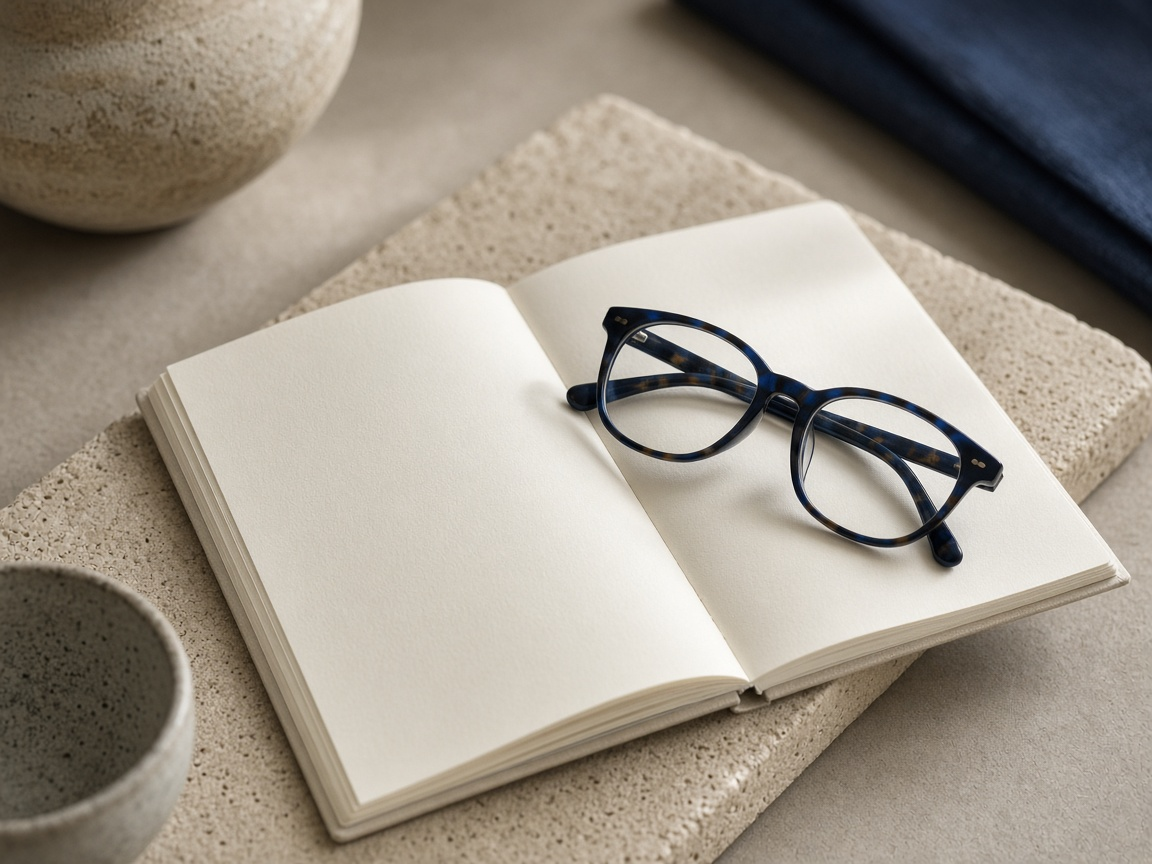
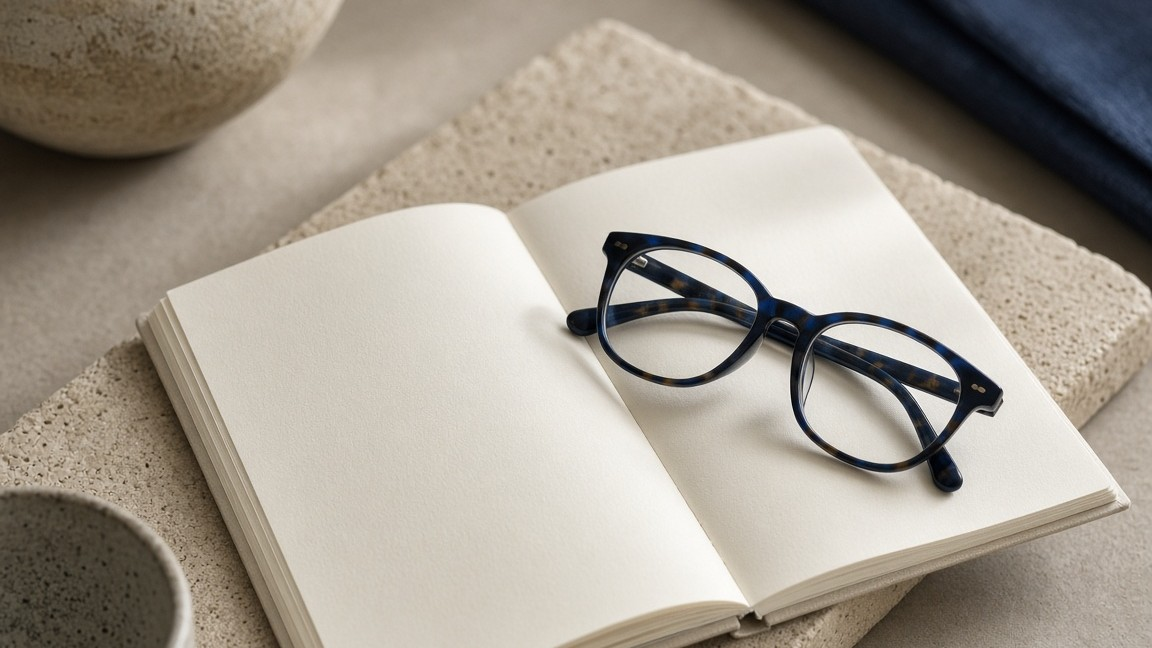
fix: crop the profile figure and tighten type scale
Remove the empty about-photo well, shorten philosophy stills to 16:9, replace the experiment image, enlarge body type, and shrink buttons.

diff --git a/src/styles/brand-home.css b/src/styles/brand-home.css
@@ -42,13 +42,13 @@ button { font: inherit; }
 
 .brand { display: flex; flex-direction: column; gap: 2px; }
 .wordmark { font-family: 'Manrope', 'Pretendard', sans-serif; font-size: 24px; font-weight: 800; letter-spacing: -0.075em; }
-.brand small { font-size: 9px; letter-spacing: 0.2em; font-weight: 800; color: #899096; }
+.brand small { font-size: 11px; letter-spacing: 0.16em; font-weight: 800; color: #899096; }
 
 .desktop-nav {
 	display: flex;
 	align-items: center;
 	gap: 34px;
-	font-size: 13px;
+	font-size: 15px;
 	font-weight: 650;
 	color: #4c545c;
 }
@@ -57,8 +57,8 @@ button { font: inherit; }
 .contact {
 	border: 1px solid #c8ced2;
 	border-radius: 100px;
-	padding: 12px 17px;
-	font-size: 12px;
+	padding: 8px 14px;
+	font-size: 13px;
 	font-weight: 700;
 }
 .contact:hover { background: #fff; }
@@ -80,7 +80,7 @@ button { font: inherit; }
 	display: inline-flex;
 	align-items: center;
 	gap: 11px;
-	font: 700 11px 'DM Sans', sans-serif;
+	font: 700 12px 'DM Sans', sans-serif;
 	letter-spacing: 0.17em;
 	color: #4164ba;
 }
@@ -97,7 +97,7 @@ h1 {
 .accent { color: var(--blue); }
 
 .hero-desc {
-	font-size: 16px;
+	font-size: 18px;
 	color: #5d666c;
 	line-height: 1.9;
 	letter-spacing: -0.03em;
@@ -110,26 +110,26 @@ h1 {
 .primary {
 	background: var(--ink);
 	color: white;
-	padding: 17px 24px;
+	padding: 10px 16px;
 	border-radius: 100px;
 	font-weight: 700;
-	font-size: 13px;
+	font-size: 14px;
 	display: inline-flex;
 	align-items: center;
-	gap: 25px;
+	gap: 10px;
 }
 .primary:hover { background: var(--blue); }
 
 .secondary {
 	border: 1px solid #bec5c8;
-	padding: 16px 22px;
+	padding: 9px 15px;
 	border-radius: 100px;
 	font-weight: 700;
-	font-size: 13px;
+	font-size: 14px;
 }
 .secondary:hover { background: #fff; }
 
-.hero-note { font-size: 11px; letter-spacing: 0.05em; color: #8a949a; margin-top: 53px; }
+.hero-note { font-size: 13px; letter-spacing: 0.05em; color: #8a949a; margin-top: 36px; }
 
 .visual {
 	aspect-ratio: 1.08;
@@ -214,13 +214,13 @@ h1 {
 
 .section { padding: 76px 0; }
 .section-head { display: flex; justify-content: space-between; align-items: end; margin-bottom: 28px; gap: 25px; }
-.overline { font: 700 11px 'DM Sans', sans-serif; letter-spacing: 0.17em; color: #65727e; }
-.section h2 { font-size: clamp(26px, 3vw, 39px); letter-spacing: -0.065em; margin: 10px 0 0; }
-.section-intro { font-size: 13px; color: var(--sub); max-width: 390px; line-height: 1.75; }
+.overline { font: 700 12px 'DM Sans', sans-serif; letter-spacing: 0.17em; color: #65727e; }
+.section h2 { font-size: clamp(30px, 3.2vw, 42px); letter-spacing: -0.04em; margin: 10px 0 0; }
+.section-intro { font-size: 16px; color: var(--sub); max-width: 420px; line-height: 1.75; }
 
 .cards { display: grid; grid-template-columns: repeat(3, 1fr); gap: 14px; }
 .card {
-	min-height: 306px;
+	min-height: 260px;
 	border: 1px solid var(--line);
 	background: #fff;
 	padding: 26px;
@@ -231,10 +231,10 @@ h1 {
 }
 .card:hover { transform: translateY(-5px); border-color: #a5b8ed; }
 .card.feature { background: #e8edff; border-color: #e8edff; }
-.card-top { display: flex; justify-content: space-between; align-items: center; color: #606d7d; font-size: 11px; font-weight: 750; letter-spacing: 0.1em; }
+.card-top { display: flex; justify-content: space-between; align-items: center; color: #606d7d; font-size: 12px; font-weight: 750; letter-spacing: 0.1em; }
 .card-icon { width: 43px; height: 43px; display: grid; place-items: center; border-radius: 50%; border: 1px solid #cbd5e5; font-size: 20px; }
 .card h3 { font-size: 28px; letter-spacing: -0.06em; margin: 0 0 12px; }
-.card p { color: #636f79; font-size: 13px; line-height: 1.85; max-width: 265px; margin: 0; }
+.card p { color: #636f79; font-size: 16px; line-height: 1.75; max-width: 280px; margin: 0; }
 .card-bottom { display: flex; justify-content: space-between; align-items: center; }
 .circle-arrow { width: 34px; height: 34px; border-radius: 50%; border: 1px solid #ccd4db; display: grid; place-items: center; }
 .card:hover .circle-arrow { background: var(--ink); color: #fff; }
@@ -242,48 +242,48 @@ h1 {
 .selected { padding: 28px 0 80px; }
 .selected-wrap { background: #181f26; color: #fff; padding: 45px 48px; display: grid; grid-template-columns: 1.05fr 1fr; gap: 60px; }
 .selected h2 { font-size: 38px; letter-spacing: -0.07em; line-height: 1.45; margin: 20px 0; }
-.selected p { color: #aebac4; line-height: 1.8; font-size: 13px; }
+.selected p { color: #aebac4; line-height: 1.8; font-size: 16px; }
 .selected .overline { color: #94acff; }
 .selected .secondary { display: inline-block; color: white; border-color: #65717c; margin-top: 15px; }
 .research-items { border-top: 1px solid #43505c; }
 .research-item { border-bottom: 1px solid #43505c; padding: 23px 0; display: flex; justify-content: space-between; gap: 15px; }
-.research-item b { display: block; font-size: 16px; margin-bottom: 7px; }
-.research-item small { color: #9eabb8; font-size: 11px; }
+.research-item b { display: block; font-size: 18px; margin-bottom: 7px; }
+.research-item small { color: #9eabb8; font-size: 14px; }
 
 .articles { border-top: 1px solid var(--line); }
 .article { padding: 24px 0; border-bottom: 1px solid var(--line); display: grid; grid-template-columns: 105px 1fr 32px; gap: 20px; align-items: center; }
-.article .category { font-size: 10px; letter-spacing: 0.07em; color: #7b858d; font-weight: 750; }
-.article b { font-size: 17px; letter-spacing: -0.04em; }
-.article small { display: block; color: #8c949b; font-size: 11px; margin-top: 8px; }
+.article .category { font-size: 12px; letter-spacing: 0.07em; color: #7b858d; font-weight: 750; }
+.article b { font-size: 20px; letter-spacing: -0.03em; }
+.article small { display: block; color: #8c949b; font-size: 14px; margin-top: 8px; }
 
-.about { display: grid; grid-template-columns: 0.65fr 1.35fr; gap: 50px; padding: 80px 0; border-top: 1px solid var(--line); }
+.about { display: grid; grid-template-columns: minmax(180px, 280px) 1fr; gap: 36px; padding: 80px 0; border-top: 1px solid var(--line); align-items: start; }
 .about h2 { font-size: 34px; letter-spacing: -0.04em; margin: 0; word-break: keep-all; }
-.about p { font-size: 16px; line-height: 1.9; color: #525e69; margin: 0; word-break: keep-all; }
+.about p { font-size: 18px; line-height: 1.75; color: #525e69; margin: 0; word-break: keep-all; }
 .about .note { font-size: 12px; color: #858e96; margin-top: 17px; }
 .academy-open { display: inline-block; margin-top: 17px; color: var(--ink); }
 .role { color: #8b949b; font-size: 18px; letter-spacing: 0; }
 
-.about-teaser { align-items: center; }
+.about-teaser { align-items: start; }
 .about-figure {
 	margin: 0;
-	background: #efece6;
-	border: 1px solid var(--line);
+	background: transparent;
+	border: 0;
 	overflow: hidden;
+	align-self: start;
+	max-width: 280px;
 }
 .about-figure img {
 	width: 100%;
-	aspect-ratio: 4 / 5;
-	object-fit: contain;
-	object-position: center;
+	height: auto;
 	display: block;
-	background: #efece6;
+	background: transparent;
 }
-.about-kicker { font-size: 13px; color: #5d666c; margin: 14px 0 0; }
+.about-kicker { font-size: 17px; color: #5d666c; margin: 14px 0 0; }
 .about-points { margin: 18px 0 0; padding: 0; list-style: none; }
 .about-points li {
 	padding: 8px 0;
 	border-top: 1px solid var(--line);
-	font-size: 14px;
+	font-size: 16px;
 	line-height: 1.6;
 	color: #3f4850;
 	word-break: keep-all;
@@ -292,20 +292,19 @@ h1 {
 
 .page-hero { padding: 64px 0 28px; border-bottom: 1px solid var(--line); display: grid; grid-template-columns: 0.9fr 1.1fr; gap: 48px; align-items: end; }
 .page-hero h1 { margin: 16px 0 12px; }
-.page-lead { font-size: 17px; line-height: 1.9; color: #4c555c; max-width: 560px; word-break: keep-all; }
-.page-meta { font-size: 12px; color: #8a949a; letter-spacing: 0.04em; margin-top: 18px; }
+.page-lead { font-size: 19px; line-height: 1.75; color: #4c555c; max-width: 560px; word-break: keep-all; }
+.page-meta { font-size: 14px; color: #8a949a; letter-spacing: 0.04em; margin-top: 18px; }
 .portrait-frame {
 	margin: 0;
-	background: #efece6;
-	border: 1px solid var(--line);
+	background: transparent;
+	border: 0;
+	max-width: 320px;
+	align-self: start;
 }
 .portrait-frame img {
 	width: 100%;
-	aspect-ratio: 4 / 5;
-	object-fit: contain;
-	object-position: center;
+	height: auto;
 	display: block;
-	background: #efece6;
 }
 
 .philosophy { padding: 72px 0; }
@@ -315,18 +314,18 @@ h1 {
 	border: 1px solid var(--line);
 	overflow: hidden;
 }
-.philosophy-card img { width: 100%; aspect-ratio: 4 / 3; object-fit: cover; display: block; }
-.philosophy-card div { padding: 22px 20px 26px; }
-.philosophy-card h3 { margin: 0 0 10px; font-size: 20px; letter-spacing: -0.04em; }
-.philosophy-card p { margin: 0; font-size: 14px; line-height: 1.8; color: #5b646c; word-break: keep-all; }
+.philosophy-card img { width: 100%; aspect-ratio: 16 / 9; object-fit: cover; display: block; }
+.philosophy-card div { padding: 18px 18px 22px; }
+.philosophy-card h3 { margin: 0 0 10px; font-size: 22px; letter-spacing: -0.04em; }
+.philosophy-card p { margin: 0; font-size: 16px; line-height: 1.7; color: #5b646c; word-break: keep-all; }
 
 .cv-block { padding: 28px 0 72px; border-top: 1px solid var(--line); }
 .cv-grid { display: grid; grid-template-columns: 1fr 1fr; gap: 28px 48px; }
 .cv-card h3 { font-size: 15px; letter-spacing: 0.08em; text-transform: uppercase; color: #65727e; margin: 0 0 14px; font-family: 'DM Sans', sans-serif; }
 .cv-card ul { margin: 0; padding-left: 18px; color: #3f4850; }
-.cv-card li { margin: 0 0 8px; line-height: 1.65; word-break: keep-all; }
+.cv-card li { margin: 0 0 8px; line-height: 1.65; font-size: 16px; word-break: keep-all; }
 .cv-wide { grid-column: 1 / -1; }
-.en-bio { font-size: 15px; line-height: 1.85; color: #525c64; max-width: 72ch; }
+.en-bio { font-size: 17px; line-height: 1.75; color: #525c64; max-width: 72ch; }
 
 .back-link { display: inline-block; margin-top: 22px; font-size: 13px; font-weight: 700; color: var(--blue); }
 
